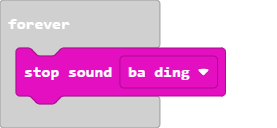
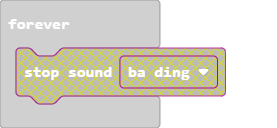
Update main.blocks, main.ts

Changed region(s): [[0.0578, 0.375, 0.8375, 0.8125]]

diff --git a/main.ts b/main.ts
@@ -259,5 +259,5 @@ let sideOrientation = sprites.create(img`
 tiles.placeOnTile(sideOrientation, tiles.getTileLocation(10, 9))
 resetBox()
 forever(function () {
-    music.baDing.stop()
+	
 })
